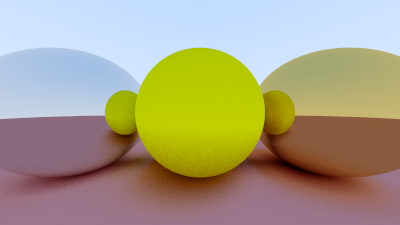
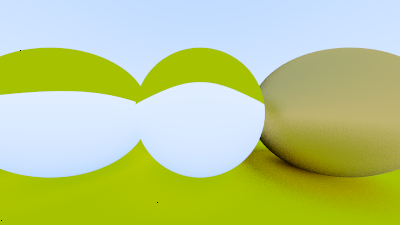
Added dielectric

diff --git a/src/main.rs b/src/main.rs
@@ -1,6 +1,7 @@
 use nalgebra::{Vector3, vector};
 use std::rc::{Rc, Weak};
 use rand::prelude::*;
+use std::cmp::min;
 
 fn main() {
     
@@ -9,13 +10,13 @@ fn main() {
     let mut world = HittableCollection::new();
 
     let matterial_ground = Rc::new(Lambertian::new(&vector![0.8,0.8,0.0]));
-    let matterial_center = Rc::new(Lambertian::new(&vector![0.7,0.3,0.3]));
-    let matterial_left = Rc::new(Metal::new(&vector![0.8,0.8,0.8]));
-    let matterial_right = Rc::new(Metal::new(&vector![0.8,0.6,0.2]));
+    let matterial_center = Rc::new(Dielectric::new(1.5));
+    let matterial_left = Rc::new(Dielectric::new(1.5));
+    let matterial_right = Rc::new(Metal::new(&vector![0.8,0.6,0.2], 1.0));
 
 
-    world.push(Rc::new(Sphere::new(vector![0.0,0.0,-1.0], 0.5, matterial_ground)));
-    world.push(Rc::new(Sphere::new(vector![0.0,-100.5,-1.0], 100.0, matterial_center)));
+    world.push(Rc::new(Sphere::new(vector![0.0,0.0,-1.0], 0.5,  matterial_center )));
+    world.push(Rc::new(Sphere::new(vector![0.0,-100.5,-1.0], 100.0, matterial_ground)));
     world.push(Rc::new(Sphere::new(vector![-1.0,0.0,-1.0], 0.5, matterial_left)));
     world.push(Rc::new(Sphere::new(vector![1.0, 0.0,-1.0], 0.5, matterial_right)));
     
@@ -394,6 +395,14 @@ fn reflect(v: &Direction, n: &Direction) -> Direction {
     v.clone() - 2.0 * v.dot(n) * n
 }
 
+fn refract(vecIn: &Direction, normal: &Direction, coeffIn: f32, coeffOut: f32) -> Direction{
+    let ratio = coeffIn / coeffOut;
+    let cos_theta = (vecIn.dot(normal)).min(1.0);
+    let vecOut_perp = ratio * (vecIn - cos_theta * normal);
+    let vecOut_para = -(1.0 - vecOut_perp.norm_squared()).sqrt() * normal;
+    vecOut_perp + vecOut_para
+}
+
 fn vec_unit(v: &Direction) -> Direction {
     let v = v / v.norm();
     v
@@ -401,20 +410,45 @@ fn vec_unit(v: &Direction) -> Direction {
 
 struct Metal {
     albedo: Color,
+    fuzz: f32,
 }
 
 impl Metal {
-    fn new(albedo: &Color) -> Self {
+    fn new(albedo: &Color, fuzz: f32) -> Self {
         let albedo = albedo.clone();
-        Self{albedo}
+        Self{albedo, fuzz}
     }
 }
 
 impl Material for Metal {
-    fn scatter(&self, ray: &Ray, hit_record: &HitRecord, attenuation: &mut Color, scattered: &mut Ray, _rng: &mut ThreadRng) -> bool {
+    fn scatter(&self, ray: &Ray, hit_record: &HitRecord, attenuation: &mut Color, scattered: &mut Ray, rng: &mut ThreadRng) -> bool {
         let reflected = reflect(&vec_unit(&ray.direction), &hit_record.normal);
-        *scattered = Ray::new(hit_record.point, reflected);
+        *scattered = Ray::new(hit_record.point, reflected + self.fuzz * get_random_unit(rng));
         *attenuation = self.albedo;
+        scattered.direction.dot(&hit_record.normal) > 0.0
+    }
+}
+
+struct Dielectric {
+    index_of_refraction: f32,
+}
+
+impl Dielectric {
+    fn new(index_of_refraction: f32) -> Self {
+        Self {index_of_refraction}
+    }
+}
+
+impl Material for Dielectric {
+    fn scatter(&self, ray: &Ray, hit_record: &HitRecord, attenuation: &mut Color, scattered: &mut Ray, rng: &mut ThreadRng) -> bool {
+        *attenuation = vector![1.0,1.0,1.0];
+        let refraction_ratio = if hit_record.front_face {1.0 / self.index_of_refraction} else {self.index_of_refraction};
+
+        let unit_direction = vec_unit(&ray.direction);
+        let refracted = refract(&unit_direction, &hit_record.normal, refraction_ratio,1.0);
+
+        *scattered = Ray::new(hit_record.point, refracted);
         true
     }
 }
+
